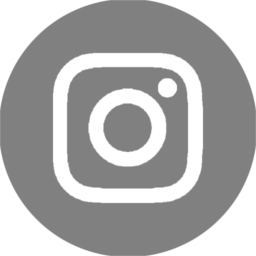
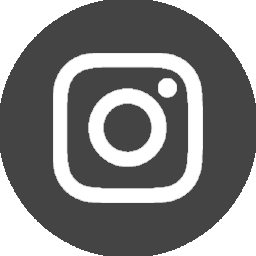
Add better pictures and more code cleanup

diff --git a/js/mainScript.js b/js/mainScript.js
@@ -2,14 +2,14 @@ function getLatest() {
     var xhttp = new XMLHttpRequest();
     xhttp.onreadystatechange = function () {
         if (this.readyState == 4 && this.status == 200) {
-            var item = this.responseXML.firstChild.childNodes[1].childNodes[13];
-            var desc = item.childNodes[3].textContent;
-            var title = item.childNodes[1].textContent;
-            var mp3Link = item.childNodes[7].outerHTML.split("\"")[1];
-            document.getElementById("latestTitle").innerHTML = "Latest Episode: " + title.replace(/</g, '&lt').replace(/>/g, '&gt').replace(/\"/g, '&quot');
-            document.getElementById("latestDesc").innerHTML = desc.replace('<', '&lt').replace('>', '&gt');
-            document.getElementById("latestAudio").src = mp3Link;
-            document.getElementById("latestEmbed").src = mp3Link;
+            var item = this.responseXML.querySelector("item");
+            var title = item.querySelector("title").textContent;
+            var desc = item.querySelector("description").textContent;
+            var mp3Link = item.querySelector("enclosure").getAttribute("url");
+            document.getElementById("latestTitle").textContent = "Latest Episode: " + title.replace(/</g, '&lt').replace(/>/g, '&gt').replace(/\"/g, '&quot');
+            document.getElementById("latestDesc").textContent = desc.replace(/</g, '&lt').replace(/>/g, '&gt').replace(/\"/g, '&quot');
+            document.getElementById("latestAudio").setAttribute("src", mp3Link);
+            document.getElementById("latestEmbed").setAttribute("src", mp3Link);
         }
     };
     xhttp.open("GET", "https://castbox.fm/app/castbox/rss/1093852", true);

diff --git a/style/mainStyle.css b/style/mainStyle.css
@@ -24,20 +24,29 @@ p {
     font-size: 25px
 }
 
+#bar {
+    position: relative;
+    top: 80%;
+    height: 4px;
+    background-color: #d2d6d6;
+}
+
 #main {
     position: relative;
     top: 80%;
     background-color: #f2f6f6;
     color: #686868;
+    text-align: center;
+    min-height: 100%;
+    padding-right: 5%;
+    padding-left: 5%;
 }
 
 .content {
     margin: auto;
     width: 100%;
-    text-align: center;
     padding-top: 0.5%;
     padding-bottom: 1%;
-    z-index: 1;
 }
 
 .divider {
@@ -54,8 +63,8 @@ p {
 }
 
 #sources {
-    margin-top: 8%;
-    margin-bottom: 8%;
+    margin-top: 1%;
+    margin-bottom: 1%;
 }
 
 .sourceLink {

diff --git a/index.html b/index.html
@@ -9,6 +9,8 @@
 
     <body onload="getLatest()">
 
+        <div id="bar"></div>
+
         <div id="main">
 
             <div class="content" id="information">
@@ -59,11 +61,6 @@
                     </a>
                 </div>
             </div>
-
-            <div class="content">
-                <img src="images/kaitlyn_Niagara.jpg" class="dividerImage">
-            </div>
-
         </div>
 
         <script src="js/mainScript.js"></script>
